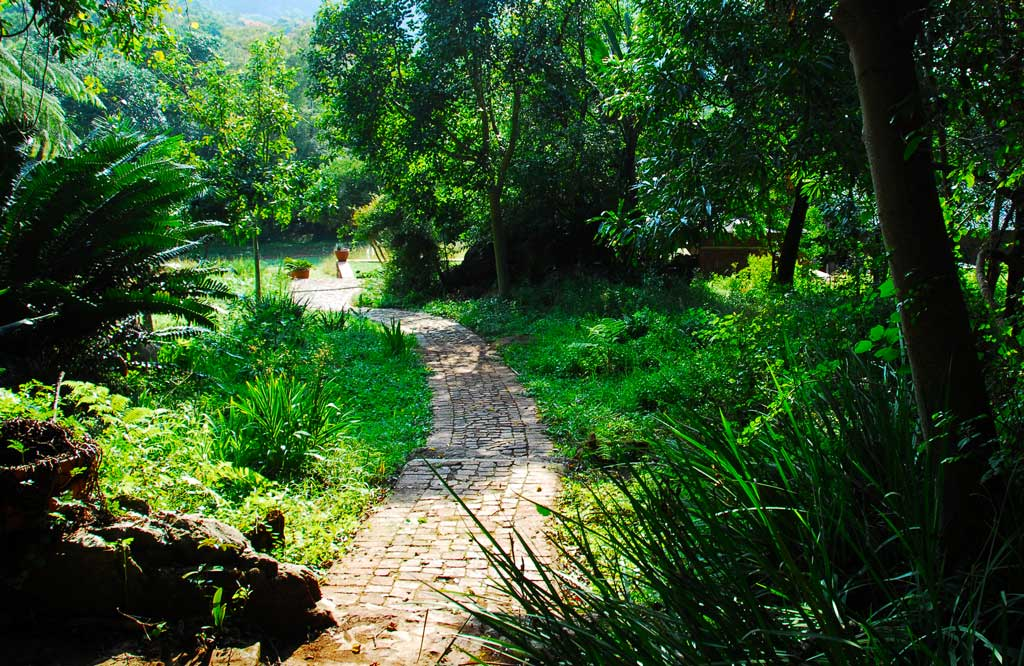
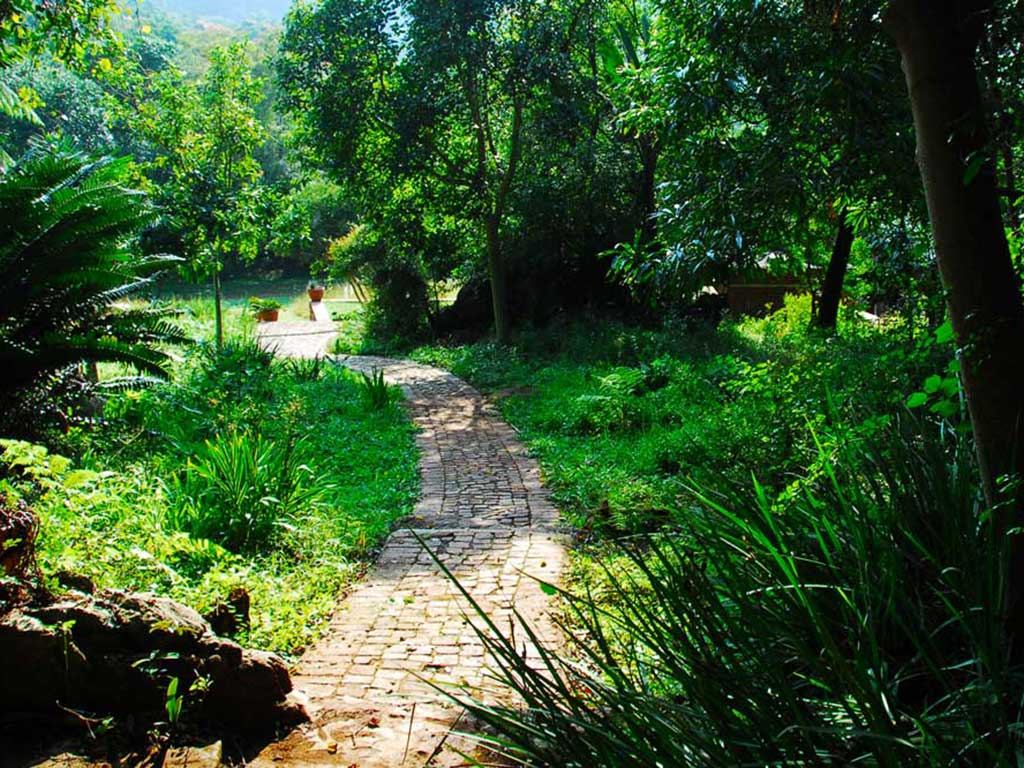
images resized, gallery created, footer placeholder and some styling

diff --git a/index.html b/index.html
@@ -8,7 +8,7 @@
   </head>
   <body>
     <!--top fixed navigation-->
-    <nav class="navbar navbar-default">
+    <nav class="navbar navbar-default navbar-fixed-top">
       <div class="container-fluid">
         <a class="navbar-brand" href="index.html">ABC Photography Blog</a>
         <ul class="nav navbar-nav">
@@ -19,16 +19,42 @@
       </div>
     </nav>
     <!--jumbotron with heading ontop-->
-    <div class="jumptron jumbotron-fluid">
+    <div class="jumbotron jumbotron-fluid">
       <div class="container">
         <h1>Forest Cottage</h1>
         <h2>My new favourite getaway!</h2>
       </div>
     </div>
     <!--intro text-->
-
+<div class="container-fluid" id="AboutMe">
+  <div class="row">
+    <h1 class="col-xs-12">About Me</h1>
+    <p>Aliquam iaculis finibus sapien ac iaculis. Nulla fermentum, est a semper egestas, metus enim elementum enim, ac tincidunt lacus diam non sem. Ut venenatis finibus quam at vehicula. Nunc id justo quis nunc fermentum scelerisque at ornare odio. Donec eleifend aliquet turpis a semper. Cras vel mi aliquam libero semper lacinia. Donec ut efficitur leo. Ut tincidunt velit ac lacus cursus dignissim. Ut porta rhoncus leo, sit amet consequat nisi faucibus id. Fusce condimentum est sit amet suscipit hendrerit. Integer mattis odio erat, nec eleifend turpis varius vel. Donec ornare, purus nec egestas tristique, sem odio posuere libero, sodales venenatis ex diam ut neque.
+      Donec pretium, tellus vel blandit scelerisque, ipsum enim laoreet velit, non condimentum nisl ex eu turpis. Sed nec tempor urna. Donec id metus blandit, ultricies nunc sed, commodo nisl. Etiam a suscipit tellus, id hendrerit lorem. Donec tincidunt justo facilisis enim tristique vulputate. Nullam sagittis malesuada tortor, volutpat consequat lectus sagittis luctus. Cras velit orci, volutpat lobortis eros quis, aliquam varius odio. In finibus at arcu in ultricies.
+    </p>
+  </div>
+</div>
     <!--2 rows of 3 images with hover over descriptions-->
+<div class="container-fluid" id="Gallery">
+  <div class="row">
+    <h1 class="col-xs-12">My Photos</h1>
+    <img src="./Resources/Images/ForestFootpath.jpg" class="col-xs-12 col-md-6 col-lg-4">
+    <img src="./Resources/Images/cottage.jpg" class="col-xs-12 col-md-6 col-lg-4">
+    <img src="./Resources/Images/RoomViewOfBedAndBathroom.jpg" class="col-xs-12 col-md-6 col-lg-4">
+    <img src="./Resources/Images/ForestWaterfall.jpg" class="col-xs-12 col-md-6 col-lg-4">
+    <img src="./Resources/Images/StreamOverRocks.jpg" class="col-xs-12 col-md-6 col-lg-4">
+    <img src="./Resources/Images/RoomViewOfLounge.jpg" class="col-xs-12 col-md-6 col-lg-4">
+  </div>
+</div>
+    <!--footer -->
+    <footer class="container-fluid">
+      <div class="row">
+        <p class="col-xs-3">All rights reserved</p>
+        <a href="index.html" class="col-xs-2">Home</a>
+        <a href="#" class="col-xs-2">My Story</a>
+        <a href="#" class="col-xs-2">Photo History</a>
+      </div>
+    </footer>
 
-    <!--footer-->
   </body>
 </html>

diff --git a/Resources/styles.css b/Resources/styles.css
@@ -1,0 +1,36 @@
+
+/*Universal styles*/
+body{
+
+}
+
+h1 {
+  text-align: center;
+}
+/*top fixed navigation*/
+nav a {
+  font-size: 2em;
+}
+/*jumbotron with heading ontop*/
+.jumbotron {
+  background-image: url(./Images/OutsideFrontOfCottage.jpg);
+  background-repeat: no-repeat;
+  background-position: center;
+}
+
+.jumbotron .container {
+  color: white;
+  background: rgb(0, 0, 0); /* Fall-back for browsers that don't support rgba */
+  background: rgba(0, 0, 0, .5);
+}
+
+/*intro text*/
+#AboutMe {
+  width: 80%;
+}
+/*2 rows of 3 images with hover over descriptions*/
+#Gallery {
+  width: 90%;
+}
+
+/*footer*/
